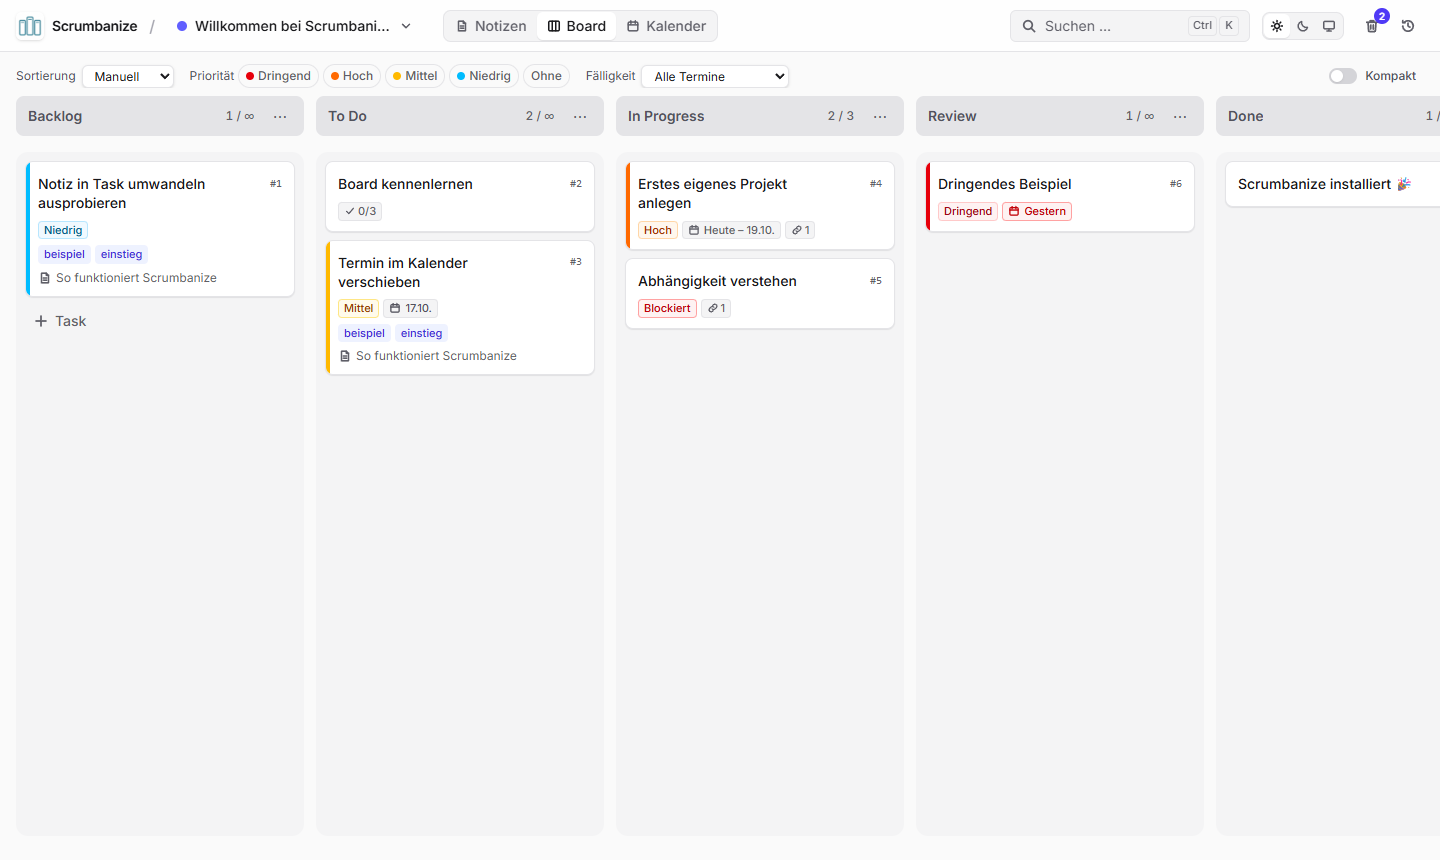
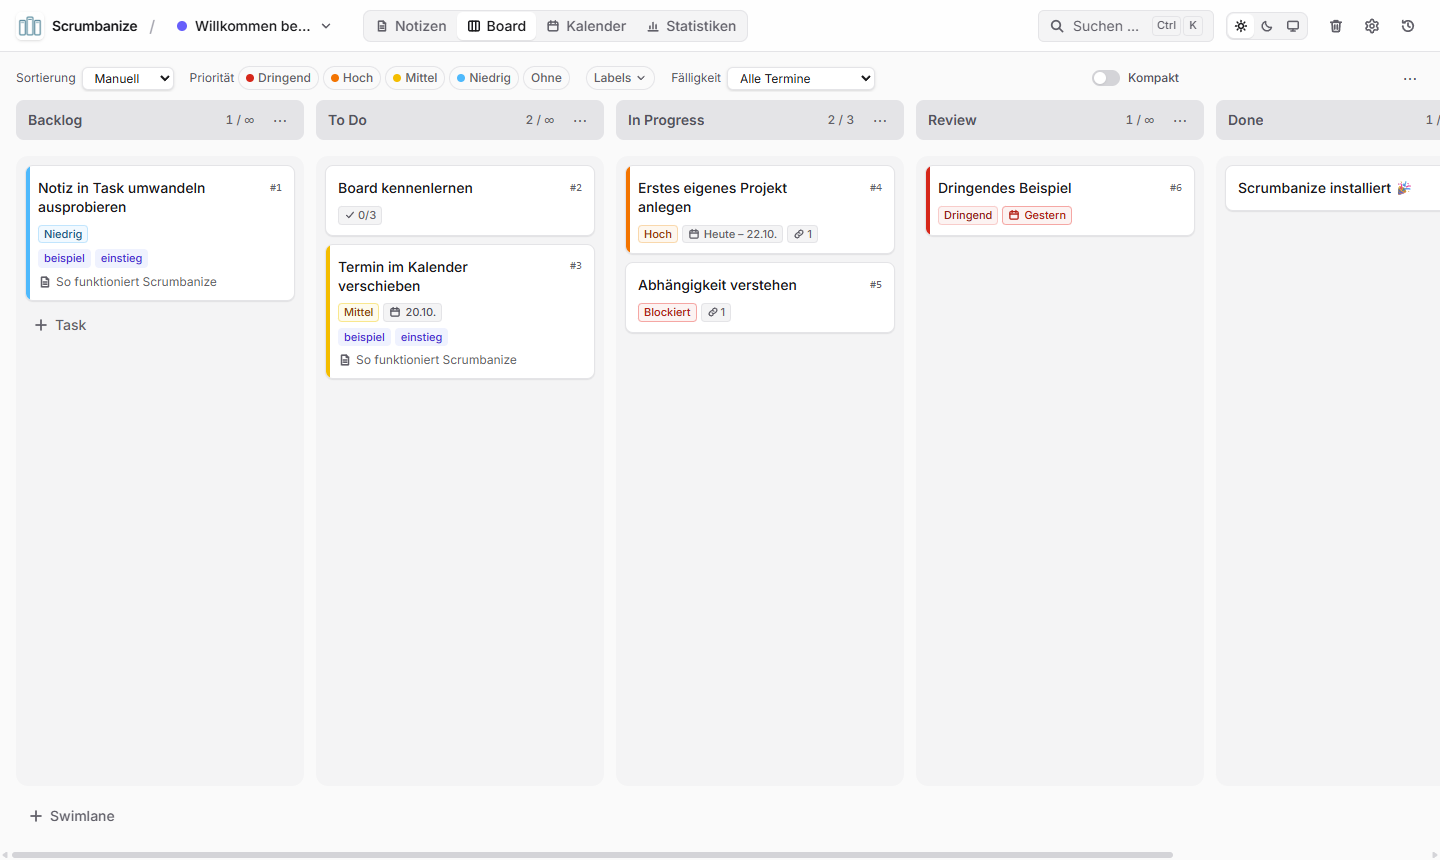
docs: README for version 1.1.0 with new screenshots
- "Neu in Version 1.1.0" overview: Mac app, reminders, tray/menu bar,
  global shortcut, resizable board columns and sticky headers
- New sections with screenshots for statistics (velocity, lead/cycle
  time, WIP breaches), graph and mindmap, and the settings page (backup,
  restore, import/export, desktop app); board screenshot updated
- Reminders, tray and shortcut described for Windows and macOS
- Screenshots from the packaged app (1440 × 860, light theme): sample
  project, statistics from a demo project with ten weeks of history

diff --git a/README.md b/README.md
@@ -81,16 +81,20 @@ Danach startet Scrumbanize ganz normal, z. B. über das Launchpad oder Spotlight
 
 ## Was kann Scrumbanize?
 
+> **Neu in Version 1.1.0:** Scrumbanize gibt es jetzt auch **für den Mac** (eine App für Apple-Chip und Intel). Dazu **Erinnerungen an fällige Aufgaben**, ein **Symbol neben der Uhr** bzw. in der Menüleiste, eine **Tastenkombination**, mit der du Scrumbanize von überall nach vorne holst, und auf dem Board **verstellbare Spaltenbreiten** und Überschriften, die beim Scrollen stehen bleiben.
+
 ### Notizen
 Schreibe Notizen mit Überschriften, Listen, **Checklisten** und farbigen Markierungen – so einfach wie in einem Textprogramm. Hänge Bilder, PDFs und Dokumente an. Aus jedem Satz wird mit einem Klick eine Aufgabe.
 
 ![Notizen mit Checklisten und Markierungen](docs/screenshots/notizen.png)
 
 ### Aufgaben-Board
-Deine Aufgaben als Karten in Spalten wie „To Do“, „In Progress“ und „Done“. Ziehe Karten mit der Maus weiter, wenn du vorankommst. Prioritäten, Fälligkeiten und Checklisten siehst du direkt auf der Karte.
+Deine Aufgaben als Karten in Spalten wie „To Do“, „In Progress“ und „Done“. Ziehe Karten mit der Maus weiter, wenn du vorankommst. Prioritäten, Fälligkeiten, Labels und Checklisten siehst du direkt auf der Karte; filtern kannst du nach Priorität, Label und Fälligkeit.
 
-- **Spaltenbreite anpassen:** am rechten Rand einer Spaltenüberschrift ziehen (Doppelklick setzt zurück). Die Breiten werden gespeichert und gelten auf allen Geräten. Über **„⋯“ rechts über dem Board** gibt es außerdem „An Fenster anpassen“, „Spaltenbreiten zurücksetzen“ und den CSV-Export.
-- Beim Herunterscrollen bleiben Spaltenüberschriften und Swimlane-Namen oben sichtbar.
+- **Spaltenbreite anpassen:** am rechten Rand einer Spaltenüberschrift ziehen, Doppelklick setzt sie zurück. Die Breiten werden gespeichert und gelten auf allen Geräten.
+- **„⋯“ rechts über dem Board:** „An Fenster anpassen“ (alle Spalten so breit, dass das Board ins Fenster passt), „Spaltenbreiten zurücksetzen“ und der Export als CSV-Datei für Excel.
+- **Lange Spalten:** Beim Herunterscrollen bleiben die Spaltenüberschriften und die Namen der Swimlanes oben sichtbar.
+- **Kleine Fenster und Tablets:** Die Kopfzeile wird schmaler (nur Symbole, Namen als Tooltip), statt aus dem Fenster zu ragen.
 
 ![Aufgaben-Board mit Karten in Spalten](docs/screenshots/board.png)
 
@@ -99,35 +103,57 @@ Alle Fälligkeiten im Monat oder in der Woche. Einen Termin verschiebst du, inde
 
 ![Kalender mit Terminen im Oktober](docs/screenshots/kalender.png)
 
+### Statistiken
+Wie läuft dein Projekt? Unter **„Statistiken“** siehst du für die letzten Wochen oder Monate:
+
+- **Velocity:** wie viele Aufgaben pro Woche (oder Monat) fertig wurden – und wie viele neu dazukamen.
+- **Lead Time und Cycle Time:** wie lange eine Aufgabe vom Anlegen bzw. vom Arbeitsbeginn bis „Erledigt“ braucht (Median und 85-%-Wert).
+- **WIP-Überschreitungen:** wann in einer Spalte mehr Aufgaben lagen als ihr Limit erlaubt (z. B. „In Progress: 3“).
+
+Jedes Diagramm lässt sich auch als Tabelle anzeigen. Gerechnet wird aus dem Board und dem Verlauf – nichts wird geschätzt.
+
+![Statistiken mit Velocity, Lead Time und Cycle Time](docs/screenshots/statistiken.png)
+
+### Graph und Mindmap
+- **Graph:** Unter „Notizen“ → „Graph“ siehst du alle Notizen und Aufgaben eines Projekts als Netzwerk: welche Aufgabe aus welcher Notiz entstanden ist und welche Aufgaben sich gegenseitig blockieren. Suchen, filtern (z. B. nur Offenes) und mit einem Klick zur Notiz oder Aufgabe springen.
+- **Mindmap:** Eine Notiz mit Überschriften und Listen zeigt Scrumbanize auf Knopfdruck als Mindmap – Zweige lassen sich auf- und zuklappen, das Ergebnis als **SVG** oder **PNG** speichern.
+
+![Graph mit Notizen und Aufgaben als Netzwerk](docs/screenshots/graph.png)
+
+![Mindmap einer Notiz](docs/screenshots/mindmap.png)
+
 ### Papierkorb
 Aus Versehen gelöscht? Kein Problem: Gelöschtes landet zuerst im Papierkorb und lässt sich mit einem Klick wiederherstellen.
 
 ![Papierkorb mit wiederherstellbaren Einträgen](docs/screenshots/papierkorb.png)
 
-### Sichern, Importieren, Exportieren
-Über das Zahnrad oben rechts (**Einstellungen**):
+### Einstellungen: Sichern, Importieren, Exportieren
+Über das Zahnrad oben rechts öffnest du die **Einstellungen**:
 - **Backup mit einem Klick** – eine ZIP-Datei mit allen Projekten, Notizen, Tasks und Anhängen – und **Wiederherstellen** aus so einem Backup. Vor dem Wiederherstellen sichert Scrumbanize den jetzigen Stand automatisch.
 - **Notizen importieren** aus Markdown-Dateien, ganzen Ordnern (z. B. Obsidian) oder ZIP-Exporten (z. B. Notion). Titel, Tags und Erstelldatum werden übernommen; Bilder noch nicht.
 - **Exportieren**: alle Notizen als Markdown oder HTML (ZIP, mit Anhängen), das Board als CSV-Datei für Excel. Einzelne Notizen lassen sich auch direkt im Editor exportieren.
+- **Vorlagen** verwalten und – in der Desktop-App – Erinnerungen, Infobereich und Tastenkombination einstellen (siehe unten).
+
+![Einstellungen mit Desktop-App, Backup und Wiederherstellen](docs/screenshots/einstellungen.png)
 
 ### Labels und Vorlagen
 - **Farbige Labels** für Tasks (neue Projekte starten mit *Bug*, *Feature* und *Dringend*): auf den Karten, im Kalender und im Graph sichtbar, das Board lässt sich danach filtern. Verwalten über „Labels ▾“ in der Leiste über dem Board.
 - **Vorlagen** für Notizen und Tasks, für ein Projekt oder für alle (dabei: *Meeting-Protokoll*, *Sprint-Planning*, *Bug-Report*). Platzhalter wie `{{datum}}`, `{{wochentag}}`, `{{uhrzeit}}`, `{{kw}}` und `{{projekt}}` werden beim Anlegen ausgefüllt; Taskvorlagen setzen auch Priorität, Labels, Spalte, Swimlane und einen Fälligkeitstermin („+7 Tage“). Auswählen beim Anlegen (Pfeil neben „Neue Notiz“, Vorlage unter „+ Task“, `Strg` + `K`), verwalten in den Einstellungen oder per „Als Vorlage speichern“.
 
+### Erinnerungen, Infobereich und Tastenkombination (Desktop-App)
+- **Erinnerungen:** Ist eine Aufgabe heute fällig oder überfällig, meldet sich Scrumbanize mit einer Benachrichtigung von Windows bzw. einer Mitteilung auf dem Mac – einmal am Tag, bis die Aufgabe in der letzten Spalte liegt. Ein Klick darauf öffnet sie. Bei mehr als drei Aufgaben kommt eine Sammelmeldung. „Jetzt prüfen“ in den Einstellungen zeigt alle sofort.
+- **Symbol neben der Uhr (Windows) bzw. in der Menüleiste (Mac):** Ein Klick holt Scrumbanize nach vorne, im Menü des Symbols gibt es „Erinnerungen jetzt prüfen“ und „Beenden“.
+  - *Windows:* In den Einstellungen lässt sich einschalten, dass Scrumbanize beim **Schließen** (oder Minimieren) neben der Uhr weiterläuft, statt sich zu beenden.
+  - *Mac:* Wie bei Mac-Programmen üblich läuft Scrumbanize nach dem Schließen des Fensters im Dock und in der Menüleiste weiter; beenden mit `⌘` + `Q`.
+- **Tastenkombination:** `Strg` + `Umschalt` + `Leertaste` (Mac: `⌘` + `⇧` + `Leertaste`) holt Scrumbanize von überall nach vorne. In den Einstellungen lässt sie sich ändern – ist eine Kombination schon von einem anderen Programm belegt, sagt Scrumbanize Bescheid.
+- **Beim Anmelden starten:** Scrumbanize startet dann mit Windows bzw. bei der Anmeldung am Mac, damit Erinnerungen auch kommen, wenn du es nicht geöffnet hast.
+- **Keine Benachrichtigungen?** Unter Windows in den Einstellungen unter **System → Benachrichtigungen** prüfen, ob sie für Scrumbanize erlaubt sind und „Nicht stören“ aus ist (mit der **portablen Version** klappen sie nicht immer zuverlässig – besser den Installer verwenden). Auf dem Mac unter **Systemeinstellungen → Mitteilungen → Scrumbanize**.
+
 ### Und außerdem
-- **Statistiken** zu erledigten Tasks, Durchlaufzeiten und WIP-Limits.
-- **Graph und Mindmap**: Notizen und Tasks als Netzwerk ansehen, eine gegliederte Notiz als Mindmap (Export als SVG oder PNG).
 - **Projekte**, um Privates, Arbeit oder Schule zu trennen – jedes mit eigener Farbe.
-- **Suche über alles** mit `Strg` + `K`.
+- **Suche über alles** mit `Strg` + `K` (Mac: `⌘` + `K`).
 - **Heller und dunkler Modus.**
 - **Verlauf**: Die Uhr oben rechts zeigt, was zuletzt passiert ist.
-
-### Erinnerungen und Infobereich (nur Desktop-App)
-- **Erinnerungen:** Ist ein Task heute fällig oder überfällig, meldet sich Windows mit einer Benachrichtigung – einmal am Tag, bis der Task in der letzten Spalte liegt. Ein Klick darauf öffnet den Task. Bei mehr als drei Tasks kommt eine Sammelmeldung.
-- **Im Infobereich weiterlaufen:** In den Einstellungen unter „Desktop-App“ lässt sich einschalten, dass Scrumbanize beim Schließen (oder Minimieren) neben der Uhr weiterläuft, statt sich zu beenden. Ein Klick auf das Symbol holt es zurück, **Beenden** geht über das Menü des Symbols (rechte Maustaste).
-- **Tastenkombination:** `Strg` + `Umschalt` + `Leertaste` holt Scrumbanize von überall nach vorne (in den Einstellungen änderbar).
-- **Mit Windows starten:** Scrumbanize startet dann bei der Anmeldung unsichtbar im Infobereich, damit Erinnerungen auch kommen, wenn du es nicht geöffnet hast.
-- Kommen keine Benachrichtigungen? In den Windows-Einstellungen unter **System → Benachrichtigungen** prüfen, ob sie für Scrumbanize erlaubt sind und „Nicht stören“ aus ist. Mit der **portablen Version** klappen Benachrichtigungen nicht immer zuverlässig – dafür besser den Installer verwenden.
 
 ## Deine Daten
 
